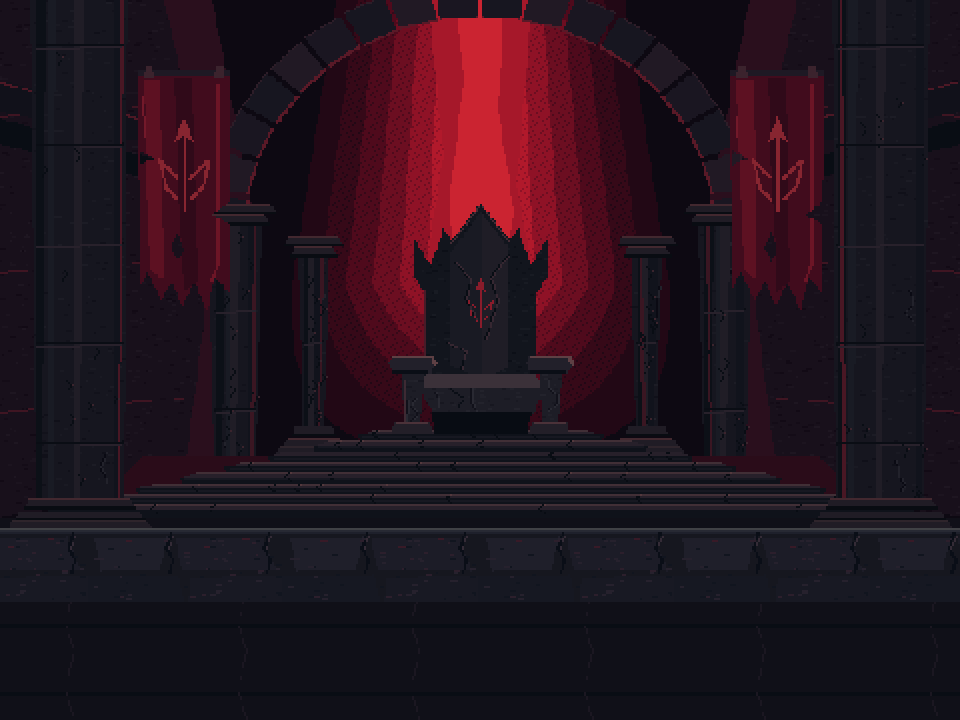
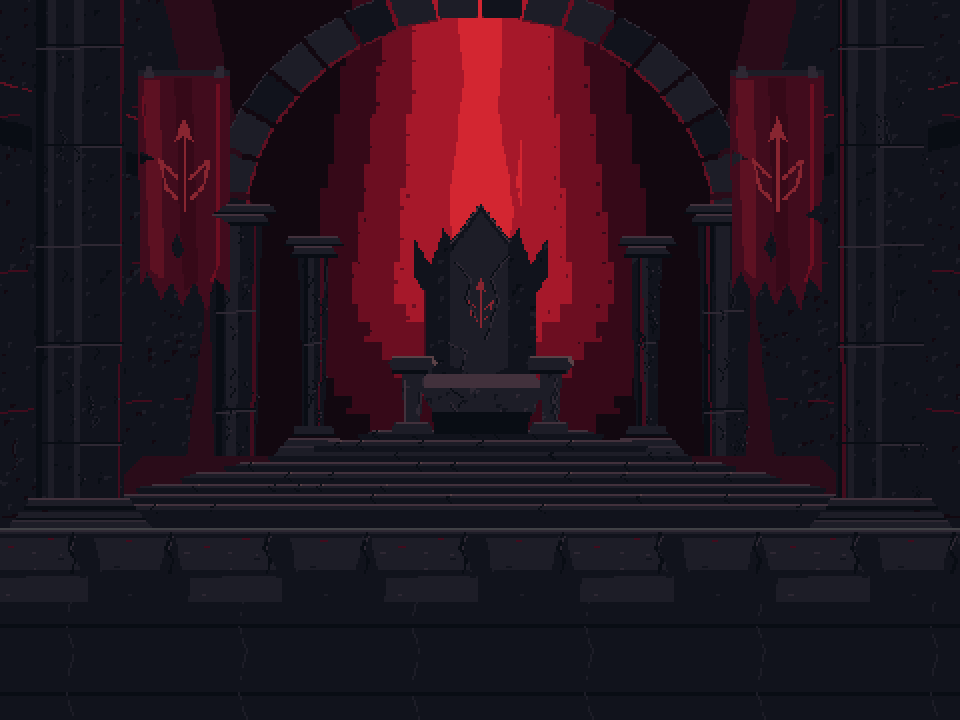
art: refine throne room with stepped light and pixel clusters

Changed region(s): [[0.5312, 0.0306, 0.6562, 0.5194], [0.3438, 0.0, 0.4375, 0.5194]]

diff --git a/Docs/Art/ArakusRoomConcept/review.html b/Docs/Art/ArakusRoomConcept/review.html
@@ -6,5 +6,5 @@
 <header><h1>Crimson Throne of the War God — 아라쿠스 1층</h1><p>신규 픽셀아트 후보. <strong>오프라인 합성 미리보기이며 Unity 실행 화면이 아닙니다.</strong><br>현재 보스룸은 교체하지 않았습니다. A를 우선 추천하되 두 후보 모두 보존합니다.</p>
 <label for="view">비교 항목 </label><select id="view"><option value="_future_mockup.png">16:9 · 확대 예정 보스(~주인공 2배)</option><option value="_current_mockup.png">16:9 · 현재 캐릭터 크기</option><option value="_room_16x9.png">16:9 · 배경과 바닥만</option><option value="_future_4x3_crop.png">4:3 · 중앙 크롭(구도 비교)</option><option value="_future_4x3_camera.png">4:3 · 실제 카메라 수식</option><option value="_readability.png">대표 예고/패링 색상 가독성</option><option value="_floor_repeat.png">바닥 6회 반복</option></select></header>
 <main><article class="card"><h2>A · StoneFortress / Crimson Throne</h2><p class="note">중앙 검은 왕좌·계단 제단·붉은 광휘·찢어진 전쟁 군기. 새 주력 시안.</p><div class="viewport"><img id="a" src="StoneFortress_future_mockup.png" alt="A 검붉은 전쟁신의 왕좌"></div></article><article class="card"><h2>B · Iron Warworks</h2><p class="note">원본 그대로 보존한 비교 후보: 철제 가새·인양 구조·보강 바닥.</p><div class="viewport"><img id="b" src="IronWarworks_future_mockup.png" alt="B 철제 전쟁 시설 시안"></div></article></main>
-<div class="links"><p>기둥은 ±4 위치, 예정 목업의 높이는 기존 3월드 단위 유지 가정입니다. 4:3 실제 카메라는 단순 좌우 크롭보다 더 위아래를 보여줍니다.</p><p><a href="StoneFortress_redesign_comparison.png">이전 A / 왕좌 개편 비교</a> · <a href="REFERENCE_REVIEW.md">디자인 검토</a> · <a href="existing_vs_concepts.png">기존 에셋 근사 화면과 비교</a> · <a href="pillar_comparison.png">정상/파괴 기둥 비교</a> · <a href="README.md">규격·통합 계획</a> · <a href="quality_report.json">검사 결과</a></p></div>
+<div class="links"><p>기둥은 ±4 위치, 예정 목업의 높이는 기존 3월드 단위 유지 가정입니다. 4:3 실제 카메라는 단순 좌우 크롭보다 더 위아래를 보여줍니다.</p><p><a href="StoneFortress_style_comparison.png">도트 정제 전후 비교</a> · <a href="STYLE_REFINEMENT.md">작화 변경 내용</a> · <a href="StoneFortress_redesign_comparison.png">이전 A / 왕좌 개편 비교</a> · <a href="REFERENCE_REVIEW.md">디자인 검토</a> · <a href="existing_vs_concepts.png">기존 에셋 근사 화면과 비교</a> · <a href="pillar_comparison.png">정상/파괴 기둥 비교</a> · <a href="README.md">규격·통합 계획</a> · <a href="quality_report.json">검사 결과</a></p></div>
 <script>document.getElementById('view').addEventListener('change',e=>{document.getElementById('a').src='StoneFortress'+e.target.value;document.getElementById('b').src='IronWarworks'+e.target.value;});</script></html>

diff --git a/Docs/Art/ArakusRoomConcept/create_assets.py b/Docs/Art/ArakusRoomConcept/create_assets.py
@@ -172,17 +172,36 @@ def scars(im,seed,variant):
 
 # StoneFortress redesign: composition from the supplied throne concept, drawn afresh
 # in the game's pixel idiom. No photo pixels, blur, smooth gradients or color filtering.
-THRONE_RED=[(18,8,16),(34,8,21),(54,9,24),(79,10,28),(108,14,33),(143,18,38),(177,25,43),(211,38,49)]
+THRONE_RED=[(18,8,16),(54,9,24),(108,14,33),(166,24,42),(211,38,49)]
 THRONE_STONE=[(10,13,19),(17,19,26),(24,25,33),(34,32,41),(47,41,49),(62,51,57)]
+
+# Stone family: outline + shadow/midtone/light + occasional chipped highlight.
+# Red family is separate so the backlight, banners and martial symbols remain crimson.
+THRONE_RENDER_PALETTE=[(9,13,20),(17,19,28),(29,29,39),(46,40,51),(66,49,60),(90,65,70),
+    (18,8,16),(42,12,25),(65,12,29),(93,17,34),(135,37,48),
+    (54,9,24),(108,14,33),(166,24,42),(211,38,49),(64,65,69)]
+
+def throne_pixel_planes(im):
+    """Map authored material colors to finite planes; no resampling, alpha or geometry changes."""
+    rgba=im.convert('RGBA');lookup={}
+    for color in set(pixels(rgba)):
+        if color[3]==0:lookup[color]=color;continue
+        chosen=min(THRONE_RENDER_PALETTE,key=lambda c:sum((c[i]-color[i])**2 for i in range(3)))
+        lookup[color]=chosen+(color[3],)
+    rgba.putdata([lookup[c] for c in pixels(rgba)])
+    return rgba
 
 def hewn_face(im,points,seed,base=(26,25,34),density=65):
     poly(im,points,base)
     rng=random.Random(seed);mask=Image.new('L',im.size);ImageDraw.Draw(mask).polygon(points,fill=255)
     box=mask.getbbox();d=ImageDraw.Draw(im)
-    for _ in range(max(1,(box[2]-box[0])*(box[3]-box[1])//density)):
-        x=rng.randrange(box[0],box[2]);y=rng.randrange(box[1],box[3]);length=rng.choice([1,1,2,3])
-        if mask.getpixel((x,y)) and mask.getpixel((min(x+length,im.width-1),y)):
-            c=shift(base,rng.choice([-6,-4,4,6]));d.line((x,y,x+length,y),fill=c)
+    # Sparse 2-4px chips grouped into angular clusters, not fine grain across the face.
+    for _ in range(max(1,(box[2]-box[0])*(box[3]-box[1])//(density*3))):
+        x=rng.randrange(box[0],box[2]);y=rng.randrange(box[1],box[3])
+        c=shift(base,rng.choice([-10,12]))
+        for ox,oy in [(0,0),(1,0),(2,0),(0,1),(1,1),(0,2)]:
+            xx,yy=x+ox,y+oy
+            if xx<im.width and yy<im.height and mask.getpixel((xx,yy)):d.point((xx,yy),fill=c)
     # A few long fractured facets, rather than a regular brick grid.
     for _ in range(2):
         x=rng.randrange(box[0],box[2]);y=rng.randrange(box[1],box[3]);pts=[]
@@ -222,18 +241,19 @@ def basalt_column(im,cx,top,bottom,width,seed,near=False):
 
 def throne_far():
     im=Image.new('RGB',(W,H),(13,9,18));d=ImageDraw.Draw(im)
-    # Deep sanctuary recess and eight hard-edged crimson light values.
-    # Quantized planes/dither are pixel light, not a filtered painting or blurred photo.
-    for y in range(0,326):
-        spread=104+y*.18
-        fall=1 if y<206 else max(.13,1-(y-206)/135)
-        for x in range(145,624):
-            distance=abs(x-384)/spread
-            strength=max(0,1-distance)*fall
-            band=min(7,int(strength*8))
+    # Five explicit light planes. 4px sampling creates stepped silhouettes;
+    # only a few 2x2 clusters at band boundaries bridge adjacent values.
+    for y in range(0,326,4):
+        spread=104+(y//16)*3
+        fall=1 if y<208 else max(.13,1-((y-208)//12)*.09)
+        for x in range(144,624,4):
+            strength=max(0,1-abs(x-384)/spread)*fall
+            band=min(4,int(strength*5))
             if band>0:
-                if (x+2*y)%7==0 and band>1:band-=1
-                im.putpixel((x,y),THRONE_RED[band])
+                d.rectangle((x,y,x+3,min(325,y+3)),fill=THRONE_RED[band])
+                fraction=strength*5-int(strength*5)
+                if band>1 and fraction<.18 and (x//4+3*(y//4))%5==0:
+                    d.rectangle((x,y,x+1,y+1),fill=THRONE_RED[band-1])
     # Clear descending shafts with angular, irregular sides and a darkened lower end.
     for coords,col in [([(348,0),(419,0),(407,141),(421,218),(407,274),(360,274),(347,206),(360,121)],(166,24,42)),
                        ([(367,0),(400,0),(395,92),(405,158),(396,231),(372,231),(364,154),(373,73)],(203,36,49))]:
@@ -340,7 +360,7 @@ def throne_floor():
     for x in [53,117]:
         stroke(im,[(x,3),(x-3,13),(x+1,20),(x-1,29)],(10,14,23),2)
         stroke(im,[(x+2,5),(x-1,13)],(52,43,54))
-    for _ in range(80):
+    for _ in range(22):
         x=rng.randint(3,124);y=rng.randint(6,46)
         d.line((x,y,min(125,x+rng.randint(1,3)),y),fill=rng.choice([(17,21,31),(38,33,45),(44,31,44)]))
     # Tiny low-value reflected crimson flecks, not glowing attack-shaped floor markings.
@@ -373,13 +393,15 @@ def throne_pillar(broken=False):
         for x,y,w,h in [(67,159,16,10),(112,159,20,12),(79,101,11,8),(105,91,10,7),(96,113,8,6)]:
             poly(im,[(x,y),(x+w,y-1),(x+w-2,y-h+2),(x+3,y-h)],(31,29,42))
             stroke(im,[(x+3,y-h),(x+w-2,y-h+2)],(68,42,56))
+        # Preserve the original one-pixel chipped junction of the broken silhouette.
+        d.point((89,123),fill=(29,29,39))
         stroke(im,[(97,131),(96,139)],(100,24,40))
         stroke(im,[(65,159),(131,159)],(34,31,43))
     return im
 
 
 def far(variant):
-    if variant=='StoneFortress':return throne_far()
+    if variant=='StoneFortress':return throne_pixel_planes(throne_far())
     seed=SEEDS[variant];rng=random.Random(seed)
     im=Image.new('RGB',(W,H),P['void'])
     base=(37,27,30) if variant=='StoneFortress' else (29,28,34)
@@ -431,7 +453,7 @@ def far(variant):
     return im.convert('RGBA')
 
 def mid(variant):
-    if variant=='StoneFortress':return throne_mid()
+    if variant=='StoneFortress':return throne_pixel_planes(throne_mid())
     rng=random.Random(SEEDS[variant]+20);im=Image.new('RGBA',(W,H));d=ImageDraw.Draw(im)
     for side in [0,1]:
         cx=63 if side==0 else 705
@@ -459,7 +481,7 @@ def mid(variant):
     return im
 
 def floor(variant):
-    if variant=='StoneFortress':return throne_floor()
+    if variant=='StoneFortress':return throne_pixel_planes(throne_floor())
     rng=random.Random(SEEDS[variant]+40);im=Image.new('RGBA',(128,48),(35,36,41,255));d=ImageDraw.Draw(im)
     # Pixel-strata and bevel define an exact walk line at top row, without red hazard-like accents.
     shades=[(64,65,69),(58,59,63),(50,52,57),(45,47,52),(41,43,48),(39,40,45)]
@@ -487,7 +509,7 @@ def floor(variant):
     return im
 
 def pillar(variant,broken=False):
-    if variant=='StoneFortress':return throne_pillar(broken)
+    if variant=='StoneFortress':return throne_pixel_planes(throne_pillar(broken))
     seed=SEEDS[variant]+(101 if broken else 99);rng=random.Random(seed)
     im=Image.new('RGBA',(192,192));d=ImageDraw.Draw(im)
     base=(68,54,50) if variant=='StoneFortress' else (59,57,60)
@@ -654,7 +676,7 @@ def main():
       'base_commit':'f13bb6bd25f469e38acce05eceb712712dc30c3f','source_canvas':[W,H],'source_ground_row':GROUND,'source_pixels_per_world_unit':PPU,
       'pillar_contract':{'sheet':[384,192],'frame':[192,192],'frames':2,'pivot':[.5,32/192],'import_ppu':56,'existing_root_scale':1.4,'world_intact_height':3.0},
       'assets':[{'path':str(p.relative_to(ROOT)),'size':list(Image.open(p).size),'mode':Image.open(p).mode,'sha256':hashlib.sha256(p.read_bytes()).hexdigest()} for p in paths]}
-    (DOC/'asset_manifest.json').write_text(json.dumps(manifest,indent=2));(DOC/'palette.json').write_text(json.dumps({'legacy':P,'throne_red':THRONE_RED,'throne_stone':THRONE_STONE},indent=2))
+    (DOC/'asset_manifest.json').write_text(json.dumps(manifest,indent=2));(DOC/'palette.json').write_text(json.dumps({'legacy':P,'throne_red':THRONE_RED,'throne_stone':THRONE_STONE,'throne_render':THRONE_RENDER_PALETTE},indent=2))
     print('Created',len(paths),'runtime PNGs, two independent concept sets, and offline previews. No integration.')
 
 if __name__=='__main__':main()

diff --git a/Docs/Art/ArakusRoomConcept/verify_revision.py b/Docs/Art/ArakusRoomConcept/verify_revision.py
@@ -7,6 +7,7 @@ import subprocess, hashlib, json, io
 DOC=Path(__file__).resolve().parent
 ROOT=DOC.parents[2]
 BASE='b7210c075badc9533c7418f5410bf0d74983d820'
+STYLE_BASE='fc7bbea550e07972c8c676b38c87b5c5f931521e'
 def git(*args):return subprocess.check_output(['git',*args],cwd=ROOT)
 def sha(p):return hashlib.sha256(p.read_bytes()).hexdigest()
 tracked=git('ls-tree','-r','--name-only',BASE).decode().splitlines()
@@ -24,13 +25,22 @@ canvas=Image.new('RGB',(1280,390),(16,18,23));d=ImageDraw.Draw(canvas)
 for x,im,label in [(0,old,'BEFORE / fortress and gate'),(640,new,'AFTER / Crimson Throne of the War God')]:
     d.text((x+12,10),label,fill=(225,217,215));canvas.paste(im.resize((640,360),Image.Resampling.NEAREST),(x,30))
 canvas.save(DOC/'StoneFortress_redesign_comparison.png')
+# Keep a distinct before/after for style refinement; preserve the earlier structure comparison.
+previous=Image.open(io.BytesIO(git('show',STYLE_BASE+':Docs/Art/ArakusRoomConcept/StoneFortress_future_mockup.png'))).convert('RGB')
+style=Image.new('RGB',(1280,390),(16,18,23));sd=ImageDraw.Draw(style)
+for x,im,label in [(0,previous,'BEFORE / previous throne rendering'),(640,new,'AFTER / stepped light and clustered stone')]:
+    sd.text((x+12,10),label,fill=(225,217,215));style.paste(im.resize((640,360),Image.Resampling.NEAREST),(x,30))
+style.save(DOC/'StoneFortress_style_comparison.png')
+stone=ROOT/'Assets/StreamingAssets/Art/ArakusRoom/StoneFortress'
+checks.append({'name':'style_refinement_alpha_silhouettes_unchanged','files':6,'pass':all(Image.open(p).getchannel('A').tobytes()==Image.open(io.BytesIO(git('show',STYLE_BASE+':'+str(p.relative_to(ROOT))))).getchannel('A').tobytes() for p in stone.glob('*.png'))})
+checks.append({'name':'style_finite_authored_palette','pass':all(len(Image.open(p).getcolors(768*512))<=17 for p in stone.glob('*.png'))})
 # Check deterministic regeneration of the generator's 34 original outputs.
-paths=sorted((ROOT/'Assets/StreamingAssets/Art/ArakusRoom').rglob('*.png'))+sorted(p for p in DOC.glob('*.png') if p.name!='StoneFortress_redesign_comparison.png')
+paths=sorted((ROOT/'Assets/StreamingAssets/Art/ArakusRoom').rglob('*.png'))+sorted(p for p in DOC.glob('*.png') if p.name not in {'StoneFortress_redesign_comparison.png','StoneFortress_style_comparison.png'})
 before={str(p.relative_to(ROOT)):sha(p) for p in paths}
 subprocess.run(['python3',str(DOC/'create_assets.py')],cwd=ROOT,check=True)
 after={str(p.relative_to(ROOT)):sha(p) for p in paths}
 checks.append({'name':'deterministic_regeneration','files':len(paths),'pass':before==after})
-(DOC/'reproduction_report.json').write_text(json.dumps({'identical_pngs':sum(before[k]==after[k] for k in before),'method':'Regenerated the 34 generator PNG outputs and checked byte equality; historical comparison generated separately by verify_revision.py','sha256':after},indent=2)+'\n')
+(DOC/'reproduction_report.json').write_text(json.dumps({'identical_pngs':sum(before[k]==after[k] for k in before),'method':'Regenerated the 34 generator PNG outputs and checked byte equality; historical comparisons generated separately by verify_revision.py','sha256':after},indent=2)+'\n')
 report={'baseline':BASE,'checks':checks,'passed':sum(c['pass'] for c in checks),'failed':sum(not c['pass'] for c in checks),'scope_note':'Git diff checks tracked paths; inspect git status before staging new documents as well.'}
 (DOC/'revision_preservation_report.json').write_text(json.dumps(report,indent=2)+'\n')
 print(json.dumps(report,indent=2))

diff --git a/Docs/Art/ArakusRoomConcept/STYLE_REFINEMENT.md b/Docs/Art/ArakusRoomConcept/STYLE_REFINEMENT.md
@@ -1,0 +1,48 @@
+# StoneFortress — 캐릭터와 맞추는 도트 정제
+
+## 수정 목적
+
+왕좌안의 구도를 유지하면서, 기존 플레이어·아라쿠스와 나란히 배치했을 때 배경만 매끈하게 보이는 점을 조정했다.
+작화 비교에는 실제 캐릭터를 합성한 현재/확대 예정 목업을 사용했다. 아래 검증은 오프라인 제작 검사이며 Unity 실행 결과가 아니다.
+
+## 줄인 것 / 강화한 것
+
+- 붉은 광휘: 8색에서 5색의 저작 팔레트로 단순화. 매 픽셀 연속 계산 대신 4px 격자에 계단식 색띠를 그린다.
+  촘촘한 전면 디더링은 제거하고 색띠 경계 일부에만 2×2 군집을 사용한다.
+- 석재: 임의의 작은 중간색을 제한 팔레트로 통합했다. 외곽/그림자/중간 면/밝은 면과 드문 칩 하이라이트가 분리된다.
+- 표면: 가는 잔입자 대신 드문 2~4px 각진 군집, 제한된 균열과 1~2px 모서리 하이라이트를 사용한다.
+- 바닥: 잔무늬 생성 횟수를 80에서 22로 줄여 전투선 주변을 조용하게 했다. 수평 반복 경계와 발 기준을 유지한다.
+- 같은 색을 모든 캐릭터에 강요하지 않았다. 어두운 배경 재질과 붉은 천/광원은 별도 색군으로 유지한다.
+  기존 캐릭터의 원본 팔레트와 텍스처에는 손대지 않았다.
+
+## 실제 PNG의 불투명 RGB 색 수
+
+픽셀을 직접 세었다. 투명색은 제외한다. 색 수 감소는 제한 팔레트의 근거이며, 미술 품질이나 스타일 일치의 수치 인증은 아니다.
+
+| 파일 | 직전 왕좌안(fc7bbea) | 도트 정제 후 |
+|---|---:|---:|
+| room_far.png | 80 | 15 |
+| room_mid.png | 28 | 10 |
+| floor_tile.png | 15 | 7 |
+| pillar_intact.png | 18 | 5 |
+| pillar_broken.png | 14 | 5 |
+| pillar_sheet.png | 31 | 6 |
+
+## 유지한 것
+
+중앙 검은 석조 왕좌, 계단식 제단, 내려오는 진홍 역광, 거대한 양쪽 석주, 찢어진 전쟁 깃발과 문양,
+좌우 대칭의 성역 구도는 유지했다. 6 PNG의 알파 실루엣도 직전 왕좌안과 동일하다.
+기존 해상도/경로/파일명과 .meta 15개의 전체 바이트를 보존했다. IronWarworks 관련 21개 파일도 동일하다.
+
+## 비교 및 검증
+
+![작화 정제 전후](StoneFortress_style_comparison.png)
+
+- 기존 자동 아트 검사: 80 PASS / 0 FAIL.
+- 보존/재현/팔레트 검사: 6 PASS / 0 FAIL. 생성 PNG 34개 재생성 바이트 일치.
+- 갤러리: 7개 보기 로드, 데스크톱 2열/좁은 화면 1열, 페이지 오류 없음.
+- 16:9 캐릭터 목업을 직접 비교했다. 붉은 역광의 계단과 색면이 더 분명하고 바닥 잔무늬가 줄었다.
+- Unity의 실제 Sprite 샘플링, 화면 흔들림, 동적 VFX 및 HUD 가독성은 미검증이다.
+- 게임 코드/Scene/Prefab, DDA/DB, 기존 캐릭터/배경 파일은 변경하지 않았다. 실제 게임 연결은 하지 않았다.
+
+생성: create_assets.py → verify_revision.py → validate_assets.py. 브라우저 검사는 verify_gallery.py.

diff --git a/Docs/Art/ArakusRoomConcept/REFERENCE_REVIEW.md b/Docs/Art/ArakusRoomConcept/REFERENCE_REVIEW.md
@@ -17,7 +17,7 @@ IronWarworks, 게임 코드, Scene, Prefab, 원래 Castle/Pillar/캐릭터, Unit
 |---|---|---|
 | 중앙 검은 돌 왕좌 | room_far의 뾰족한 등받이·두 팔걸이·좌판·하부 다리 | 실루엣을 굵게 분리하고 날개 모양의 거친 석재 꼭대기 추가 |
 | 낮고 넓은 제단 | 여덟 층으로 넓어지는 검은 계단 | 실제 이동 바닥과 구분되는 후방 장식. 계단 Collider 추가 없음 |
-| 위에서 내리는 진홍 광휘 | 중앙 수직 광주와 주변 8단계 색띠·도트 전이 | 광원은 배경에만 고정, 전투 바닥은 어두운 상태 유지 |
+| 위에서 내리는 진홍 광휘 | 중앙 수직 광주와 주변 5단계 색띠·경계 도트 군집 | 광원은 배경에만 고정, 전투 바닥은 어두운 상태 유지 |
 | 거대 석주와 높은 아치 | room_far의 원경 열주·큰 석조 아치, room_mid의 굵은 양쪽 석주 | 화면비 변경에도 중심 왕좌가 남도록 대칭 구성 |
 | 찢어진 검붉은 전쟁 군기 | room_mid 좌우 두 군기, 찢긴 밑단·천 주름·갈라진 창 문양 | 금색 테두리·왕관·화려한 귀족 장식 배제 |
 | 감옥 분위기 제거 | A의 철창문·철제 밴드·쇠사슬·인양 구조를 제거 | B는 기존 비교용으로 보존하며 새 디자인 방향과 혼동하지 않음 |
@@ -60,7 +60,7 @@ python3 Docs/Art/ArakusRoomConcept/verify_gallery.py
 verify_revision은 원래 PR #19 커밋을 Git에서 읽어 변경 전 비교를 생성하며, 34개 생성 PNG의 재현성과 보존 범위를 검사한다.
 
 - 자동 아트 검사: **80 PASS / 0 FAIL** (`quality_report.json`). 규격·알파·반복·발 기준·시야 범위 등.
-- 보존/재현 검사: **4 PASS / 0 FAIL** (`revision_preservation_report.json`). .meta 15개, B 관련 21개 보존, 수정 범위 제한, 34 PNG 바이트 재현.
+- 보존/재현 검사: **6 PASS / 0 FAIL** (`revision_preservation_report.json`). .meta 15개, B 관련 21개 보존, 수정 범위 제한, 34 PNG 바이트 재현, 직전 왕좌안 대비 알파 실루엣 유지, 제한 팔레트.
 - 미술 판단은 위 자동 검사와 별개다. 컨셉의 사실적인 표면 질감은 의도적으로 재현하지 않는다.
 - Unity 실행/임포트/Windows 빌드는 수행하지 않았다. 아트는 아직 런타임에 연결하지 않았다.
 

diff --git a/Docs/Art/ArakusRoomConcept/README.md b/Docs/Art/ArakusRoomConcept/README.md
@@ -14,7 +14,7 @@
 
 사용자가 첨부한 컨셉아트는 **공간 구성과 디자인만 참고**했다. 사진을 축소하거나 필터로 픽셀화하지 않았다.
 기존 플레이어·아라쿠스·Castle 배경을 작화 기준으로 검토하고, 제한된 명암 면·1px 균열·도트 군집으로 직접 그렸다.
-역광은 8단계 붉은 색띠와 제한된 디더링으로 표현하며 블러·부드러운 그라데이션·실사 텍스처를 사용하지 않는다.
+역광은 5단계 붉은 색띠와 경계에 제한한 2×2 디더링으로 표현하며 블러·부드러운 그라데이션·실사 텍스처를 사용하지 않는다.
 왕좌의 뾰족한 등받이, 팔걸이, 좌판, 다리와 아래 계단을 분리했다. 철창문·쇠사슬·감옥 구조는 A에서 제거했다.
 높은 석조 아치는 위압적인 성역 구조이며 금색 왕실 장식이나 정교한 성당 조각은 넣지 않았다.
 전경은 낮은 명도의 검은 바닥으로 유지하고 붉은 빛은 중앙 후방에 집중했다.
@@ -209,7 +209,9 @@ Python + Pillow가 필요하다. 생성기는 고정 seed와 손으로 배치한
 - 선정한 **하단 중앙 배경 구간**에서 예고 빨강 약 **3.109:1**, 패링 파랑 약 **3.691:1**의 최소 명암 비율.
   이는 해당 정적 배경 표본의 디자인 지표이며 전 화면/캐릭터/기둥/셰이더의 접근성 인증이 아니다.
 
-왕좌 개편 후 위 자동 검사를 다시 실행했다. 추가 보존 검사는 `revision_preservation_report.json`에 기록한다.
+왕좌 개편 후 위 자동 검사를 다시 실행했다. 이번 도트 정제에서는 석재 명암을 제한된 팔레트로 묶고, 작은 잔입자 대신 각진 도트 군집을 사용했다.
+[도트 정제 전후 비교](StoneFortress_style_comparison.png)와 [변경 내용](STYLE_REFINEMENT.md)을 참고한다.
+추가 보존 검사는 `revision_preservation_report.json`에 기록한다.
 시각 검토에서는 첨부 컨셉의 왕좌/제단/광휘/석주 배치를 비교하고, 실제 캐릭터 목업·4:3·기둥·바닥 반복·대표 예고 색상을 확인했다.
 이는 제작자의 시각 검토이며 사용자 최종 미술 승인이나 Unity 실전 검증을 대체하지 않는다.
 
